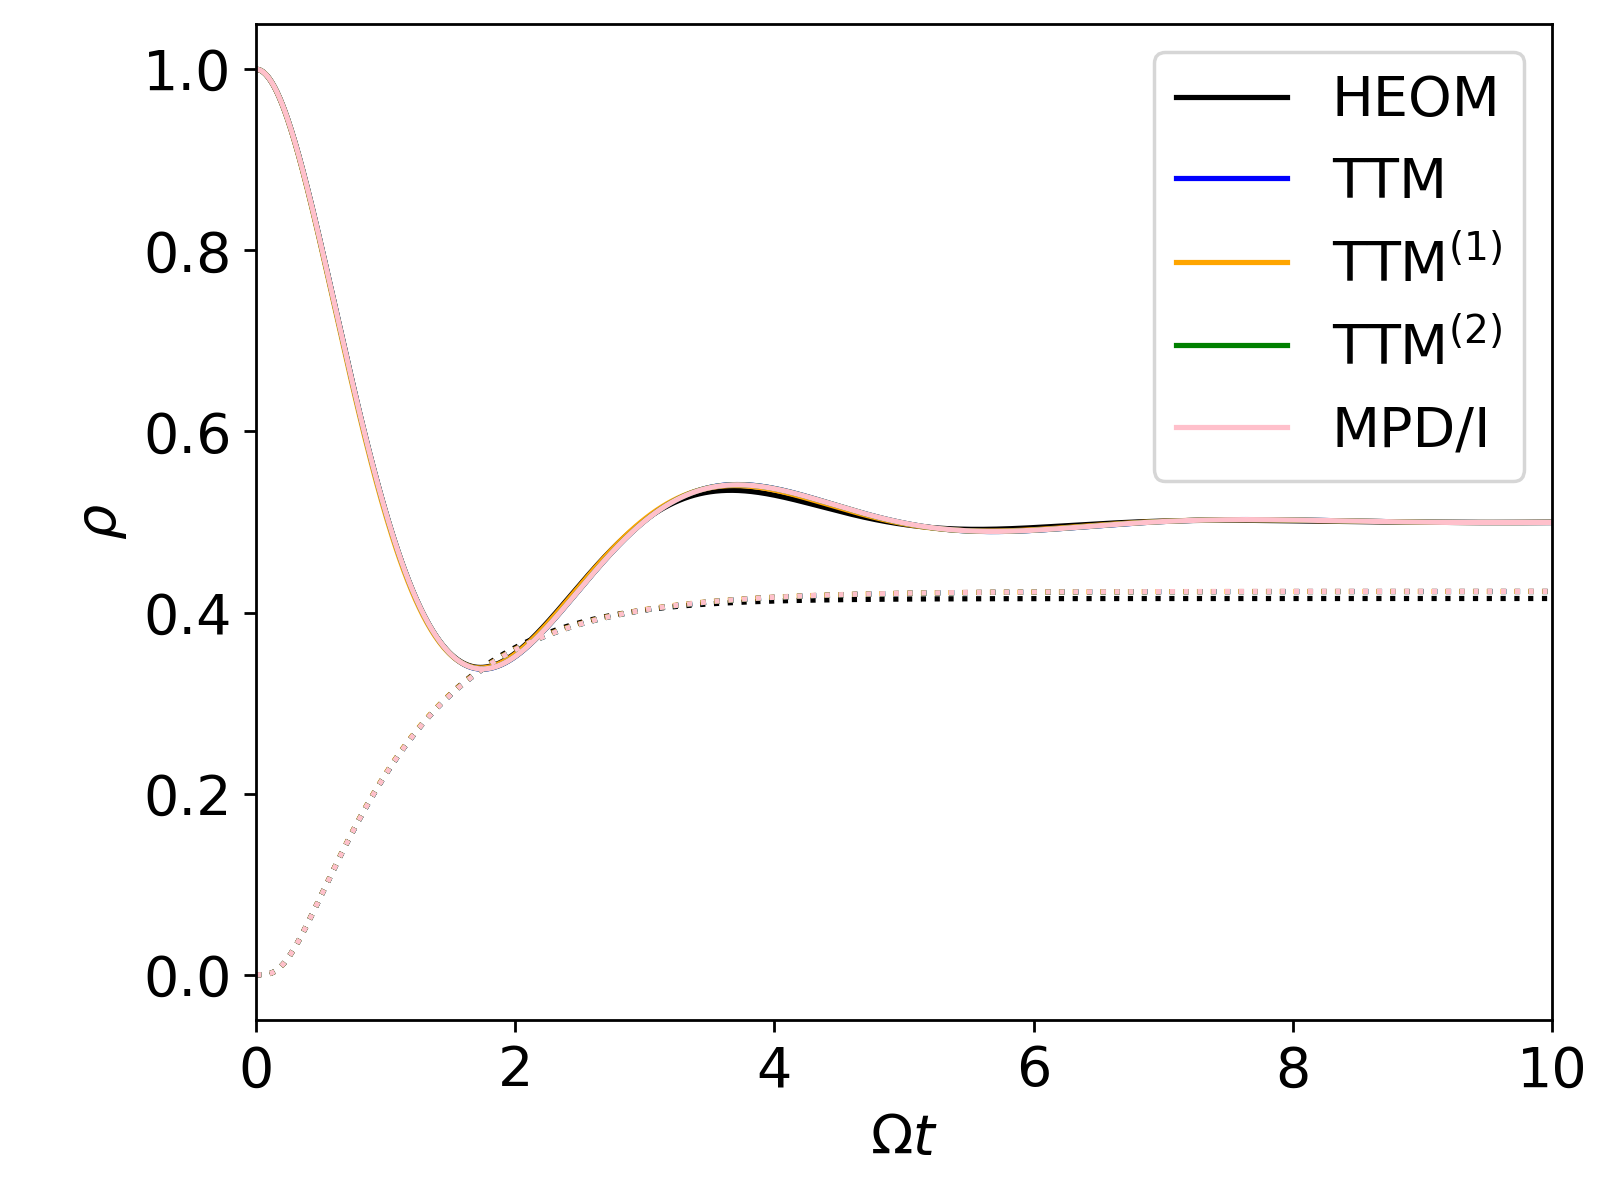
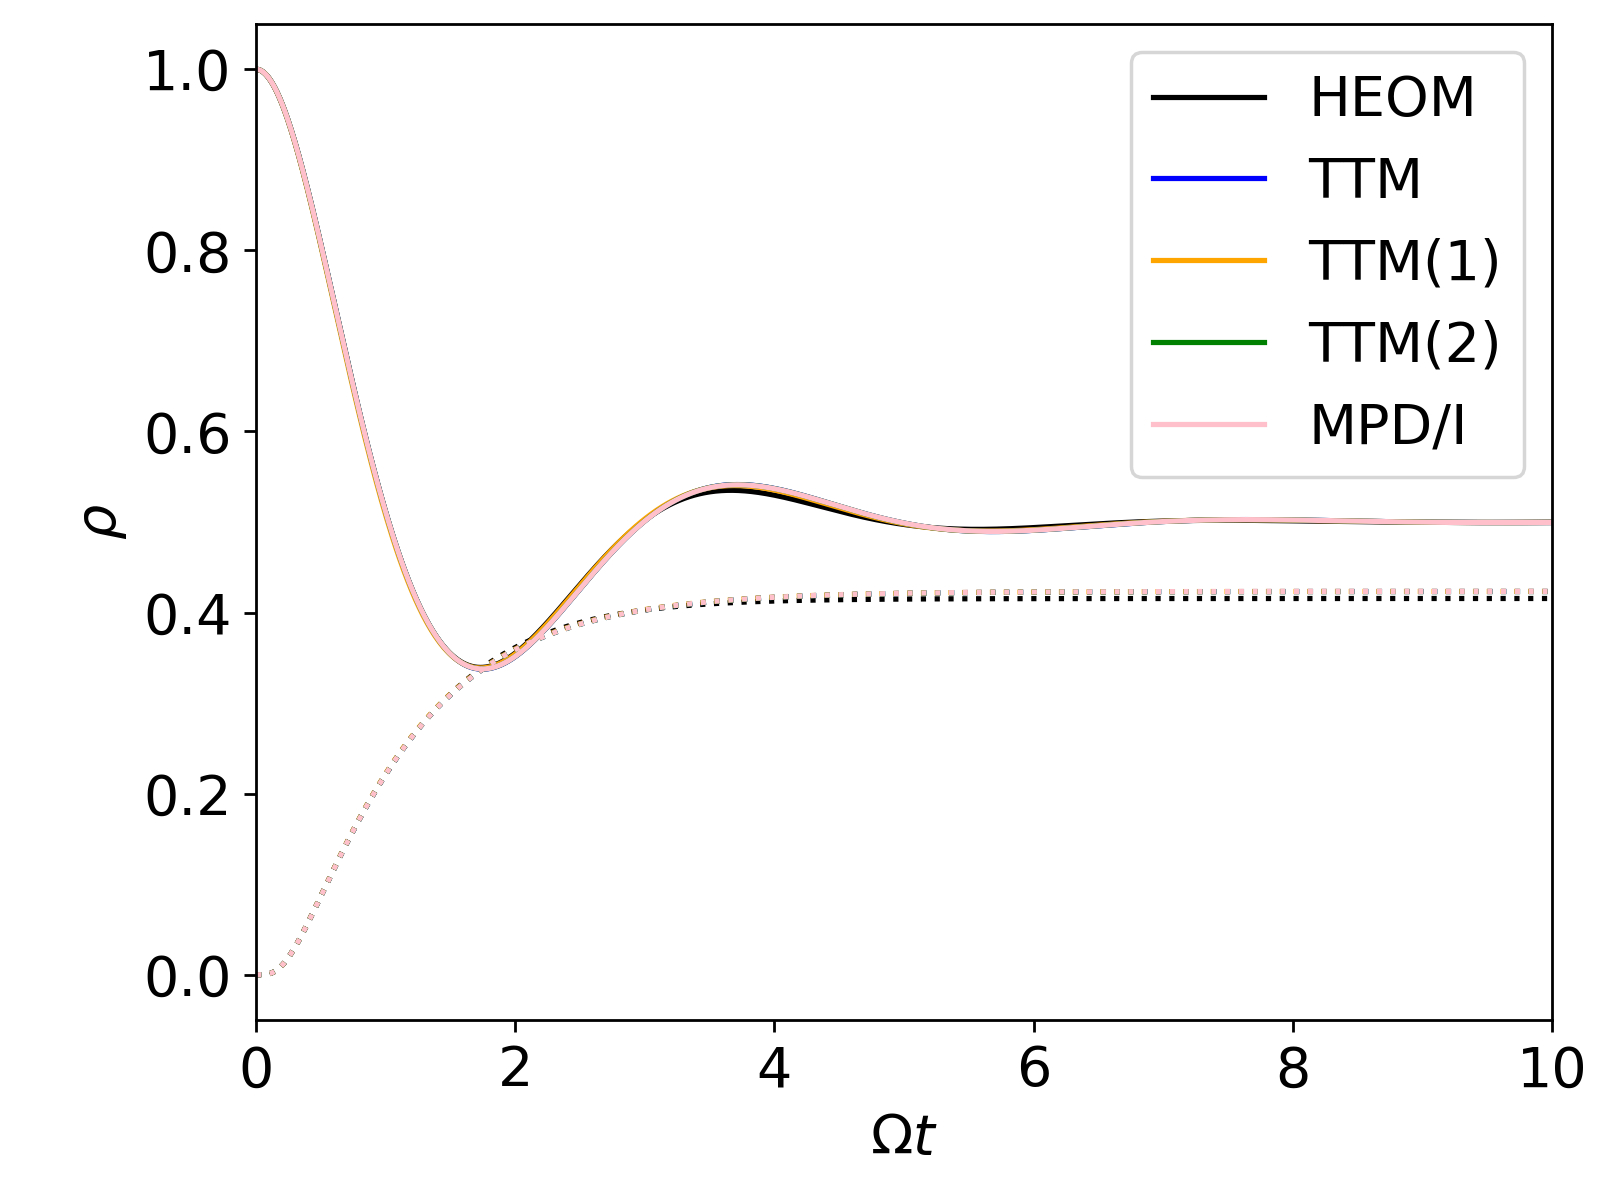
push

diff --git a/data/plots/rho.py b/data/plots/rho.py
@@ -66,7 +66,7 @@ for dt in np.array([.01,.1,.2]):
     print('TTM(1)')
     T = TTMT1(kappa,dt)
     U = T2U(U[:1],T,stop,mitigate=True)
-    plot(U,dt,ax,'orange',r'$\text{TTM}^{(1)}$')
+    plot(U,dt,ax,'orange','TTM(1)')
 
     # TTM from kernel
     print('TTM(2)')
@@ -74,7 +74,7 @@ for dt in np.array([.01,.1,.2]):
     T[1] += dt**3/6*dddU0
     T[2:] += dt**3/2*F[::itv][1:M-1]
     U = T2U(U[:1],T,stop,mitigate=True)
-    plot(U,dt,ax,'green',r'$\text{TTM}^{(2)}$')
+    plot(U,dt,ax,'green','TTM(2)')
 
 
     # midpoint from kernel
